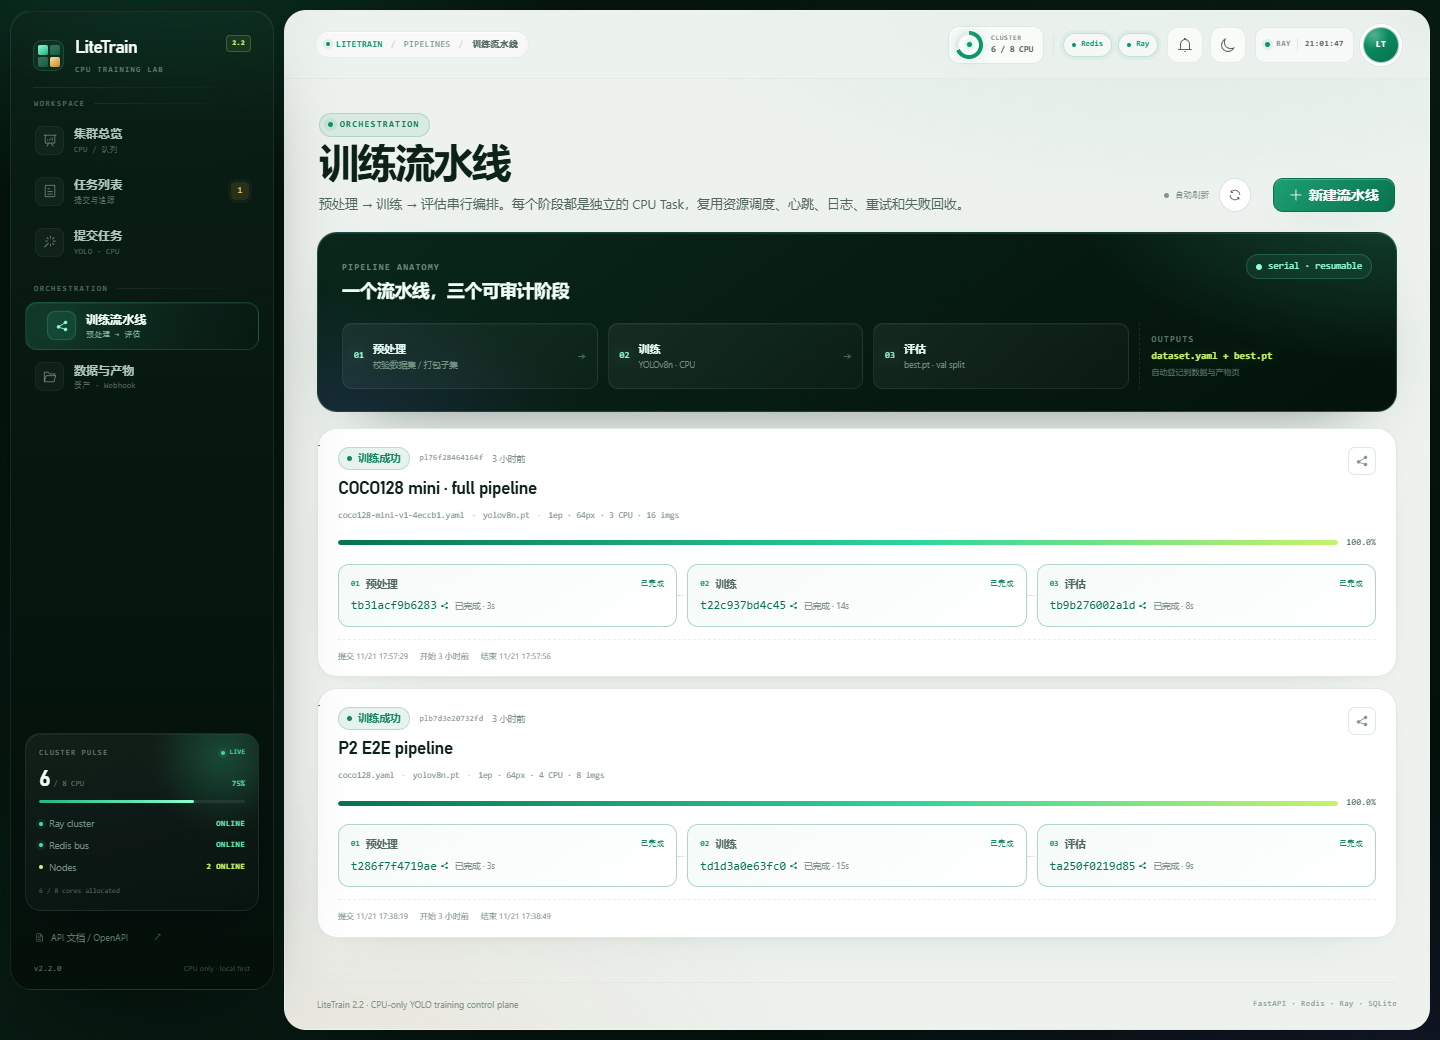
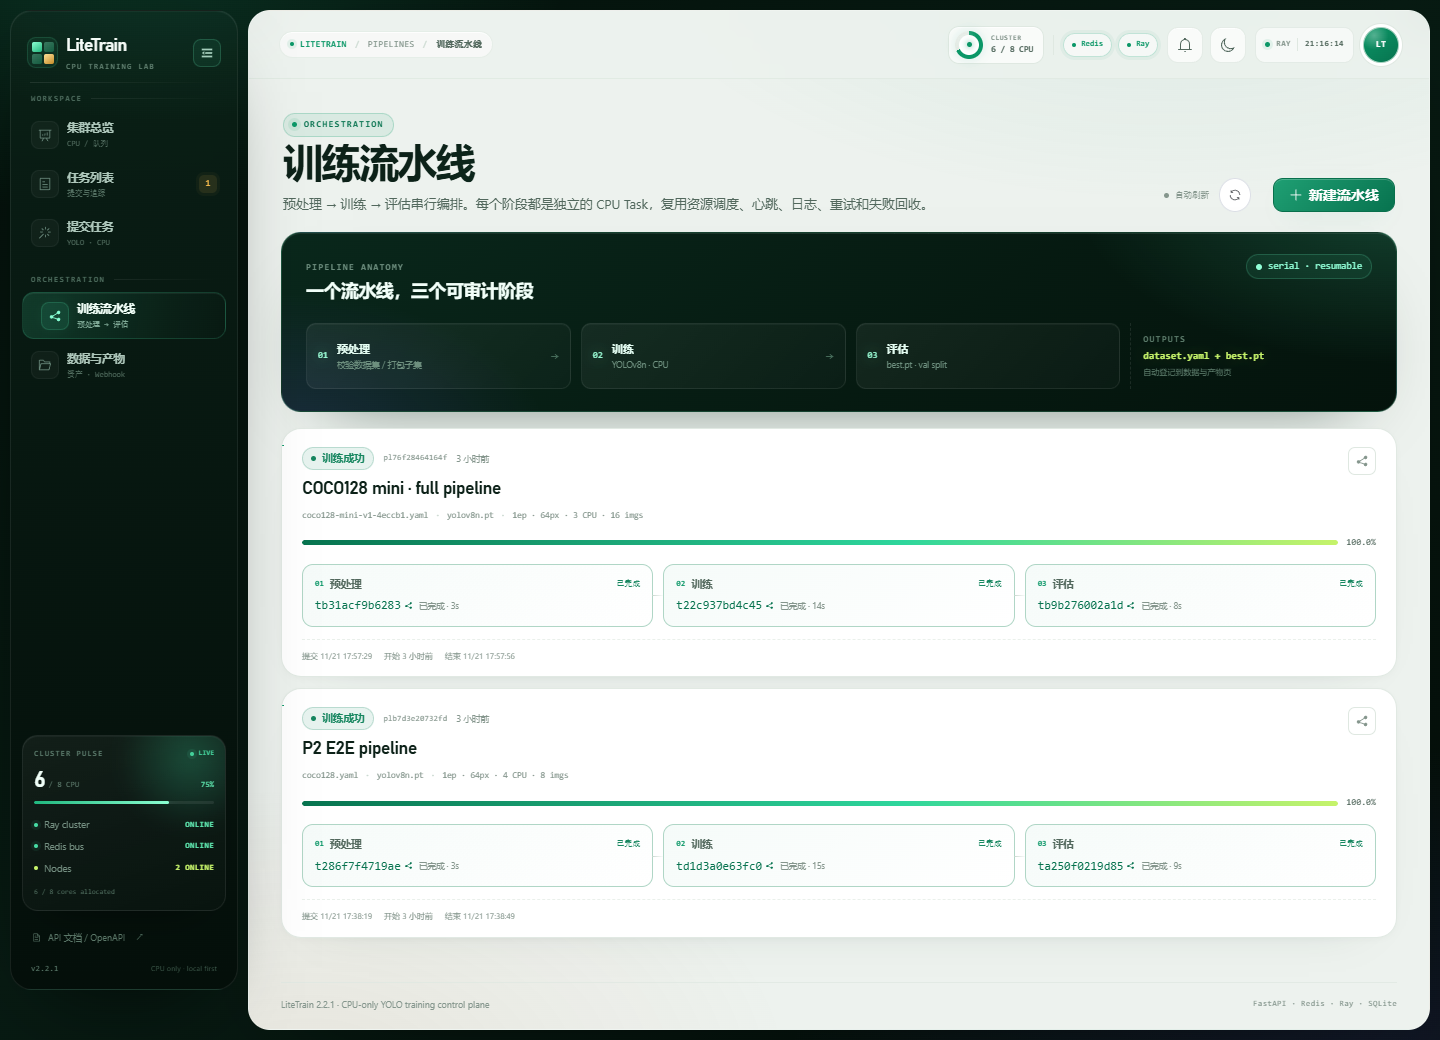
docs(web): refresh screenshots for the compact sidebar

diff --git a/docs/screenshots/README.md b/docs/screenshots/README.md
@@ -16,6 +16,7 @@ Redis + Vite) with Playwright-driven Microsoft Edge at a 1440×1000 viewport.
 | `artifacts.png` | Model artifact registry with kind filter, SHA-256 and download |
 | `webhooks.png` | Signed webhook endpoint, delivery outbox and HMAC header hint |
 | `topology.png` | Multi-node topology editor |
+| `sidebar-collapsed.png` | Desktop navigation rail collapsed to icons |
 
 The screenshots are illustrative; the actual demo can be run locally with:
 
